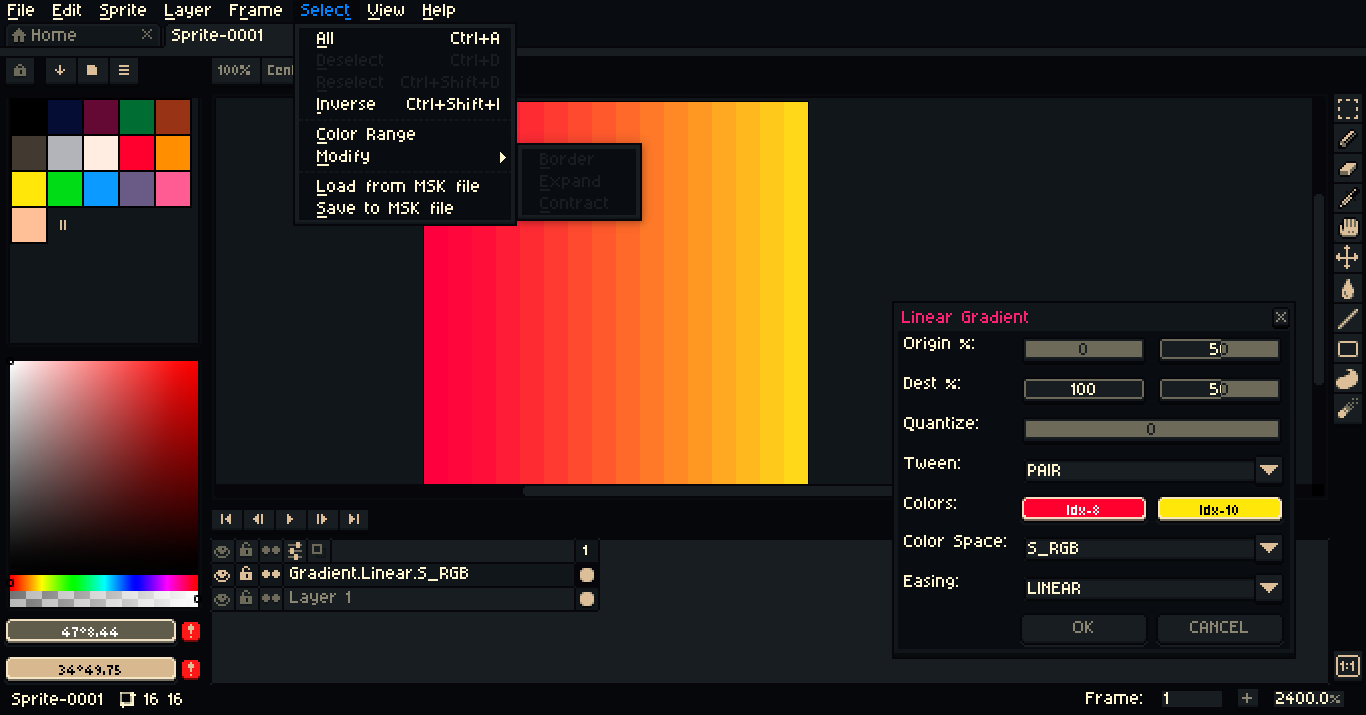
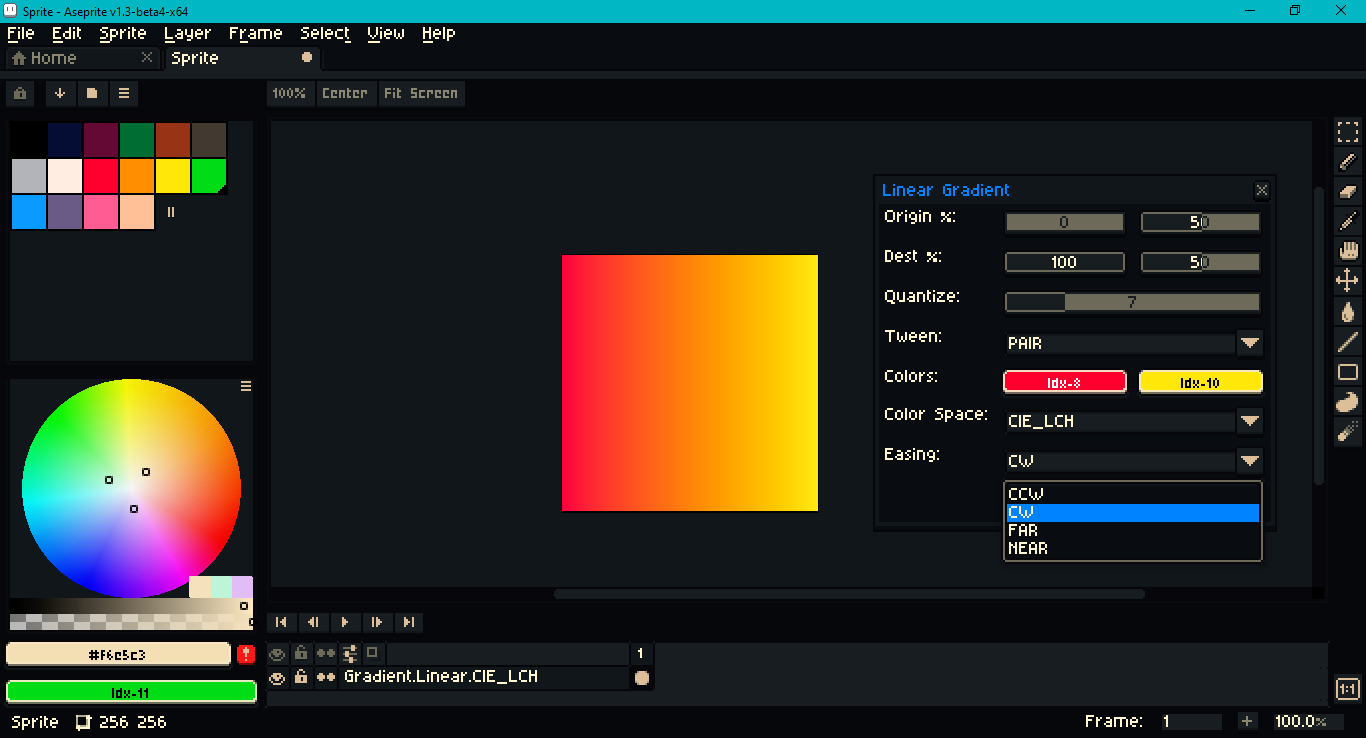
Blue Highlights
Switched links and dialog window headers to blue. Fixed highlighting for home menu items and recent file list items.

diff --git a/README.md b/README.md
@@ -2,4 +2,4 @@
 
 ![Screen Capture](screenCap.png)
 
-A work-in-progress dark theme for Aseprite. For more about themes, including installation instructions, see the [documentation](https://www.aseprite.org/docs/extensions/themes/).
+A work-in-progress dark theme for Aseprite. Tested in version 1.3 beta. For more about themes, including installation instructions, see the [documentation](https://www.aseprite.org/docs/extensions/themes/).
